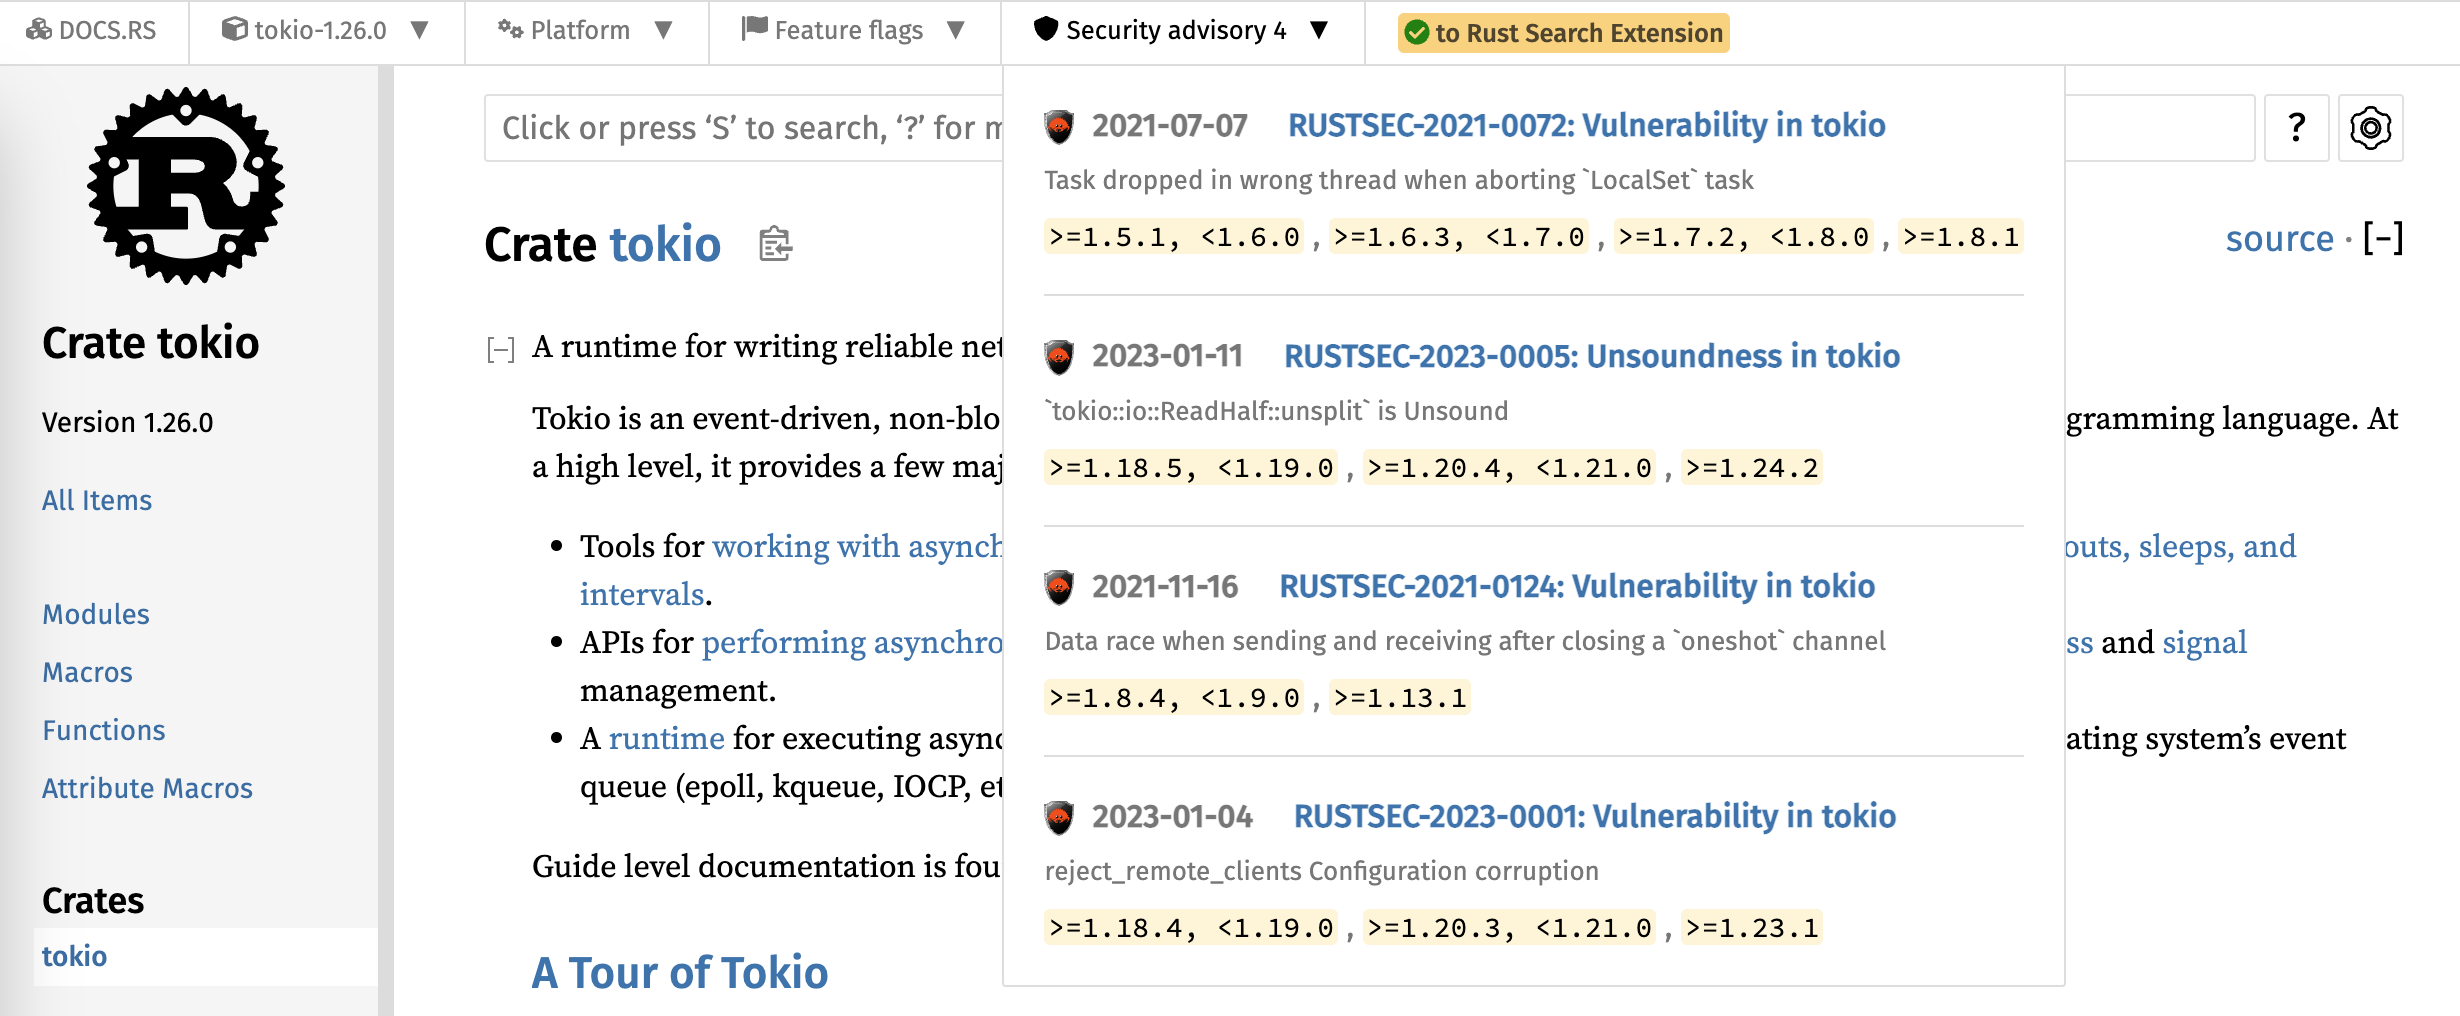
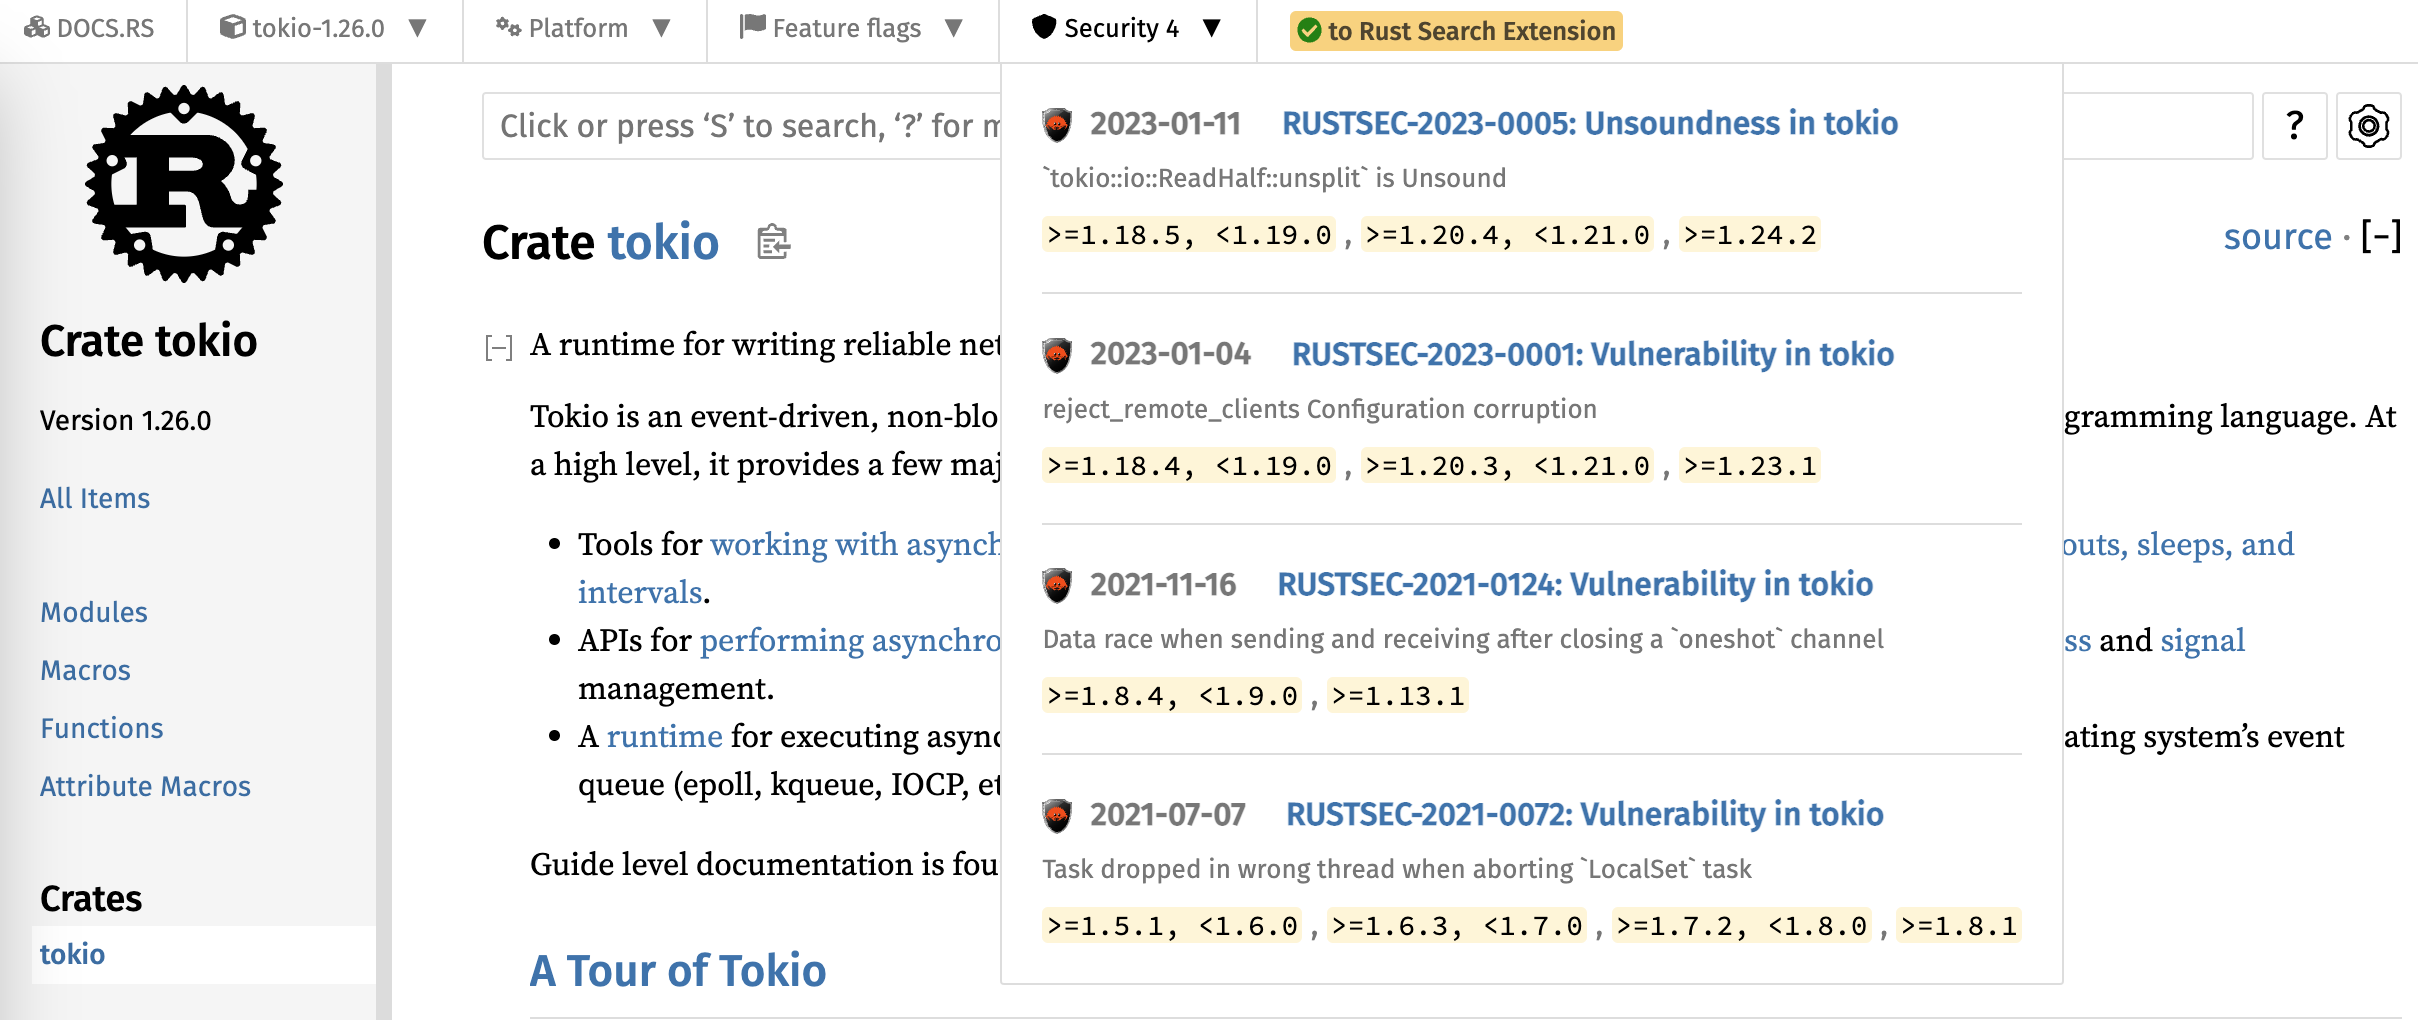
Rename to security menu

diff --git a/extension/script/docs-rs.js b/extension/script/docs-rs.js
@@ -133,7 +133,7 @@ document.addEventListener("DOMContentLoaded", async () => {
     advisoryMenu.innerHTML = `<a href="https://rustsec.org/${advisories.length > 0 ? `packages/${crateName}.html` : ""}"
                                 class="pure-menu-link" target="_blank">
                 <span class="fa-svg" aria-hidden="true">${SVG_SHEILD}</span>
-                <span class="title">Security advisory ${advisories.length}</span>
+                <span class="title">Security ${advisories.length}</span>
                 </a>
                 <div class="pure-menu-children rse-dropdown-content" role="menu">
                 ${advisories.length > 0 ? `<ul>${html}</ul>` : `<div style="padding: 1rem;text-align: center;"><img style="width:100px;padding:1rem"src="https://rustsec.org/img/rustsec-logo-square.svg"/> <div>No security advisories found.</div></div>`}

diff --git a/docs/content/changelog.md b/docs/content/changelog.md
@@ -16,6 +16,7 @@ weight = 3
   - Fix `resourcePath()` null bug. Fix {{ issue(id=219) }}
   - Fix cargo book command ({{ issue(id=231) }}) ({{ issue(id=234) }})
   - Fix error code autoincreament bug
+  - Fix can't add crates: Redeclaration of const storage ({{ issue(id=243) }})
 - Remove:
   - Remove :blog command ({{ issue(id=240) }})
   - Remove GitHub release page enhancement ({{ issue(id=241) }})
